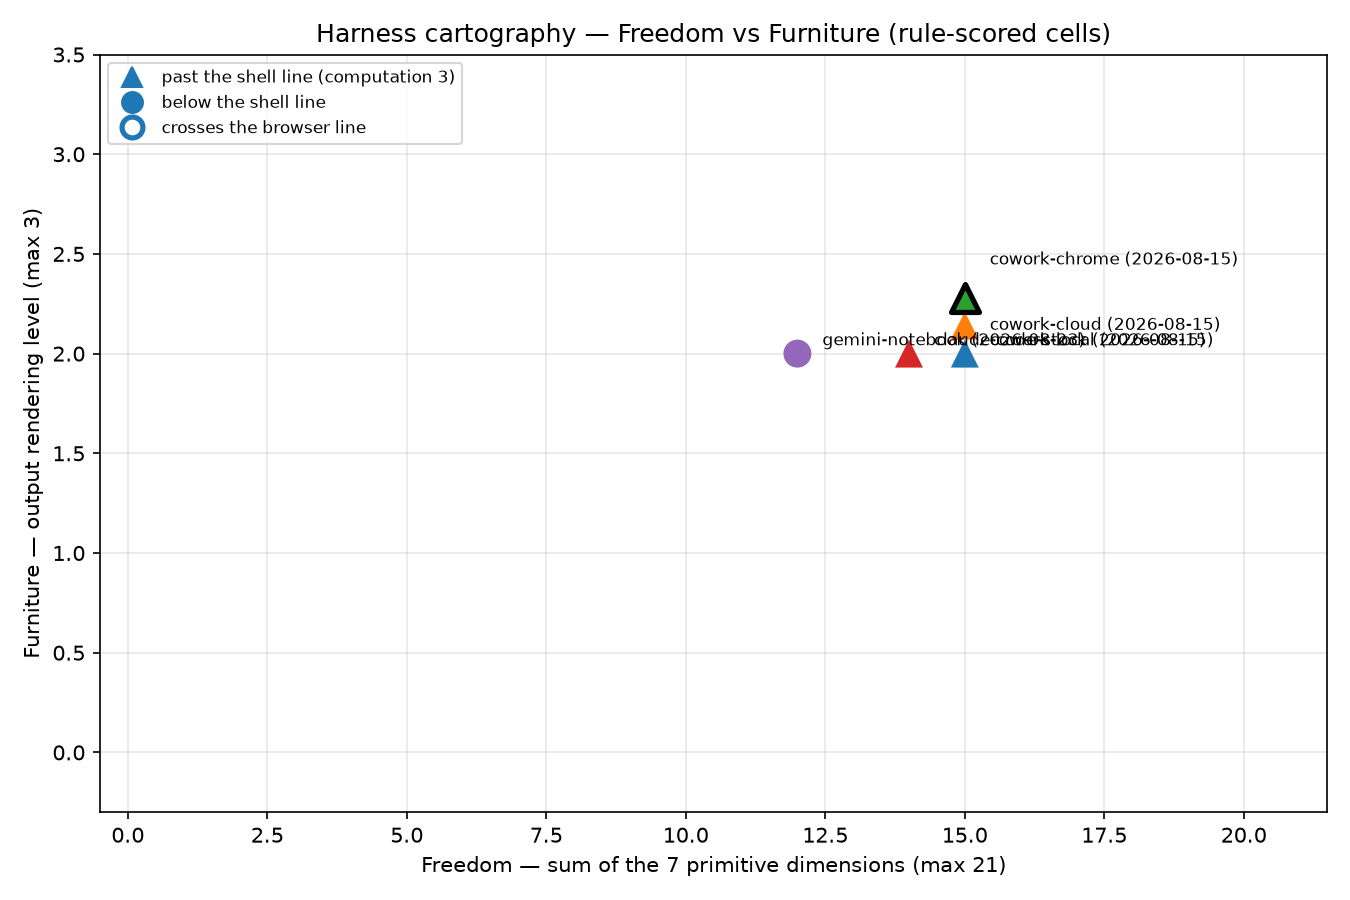
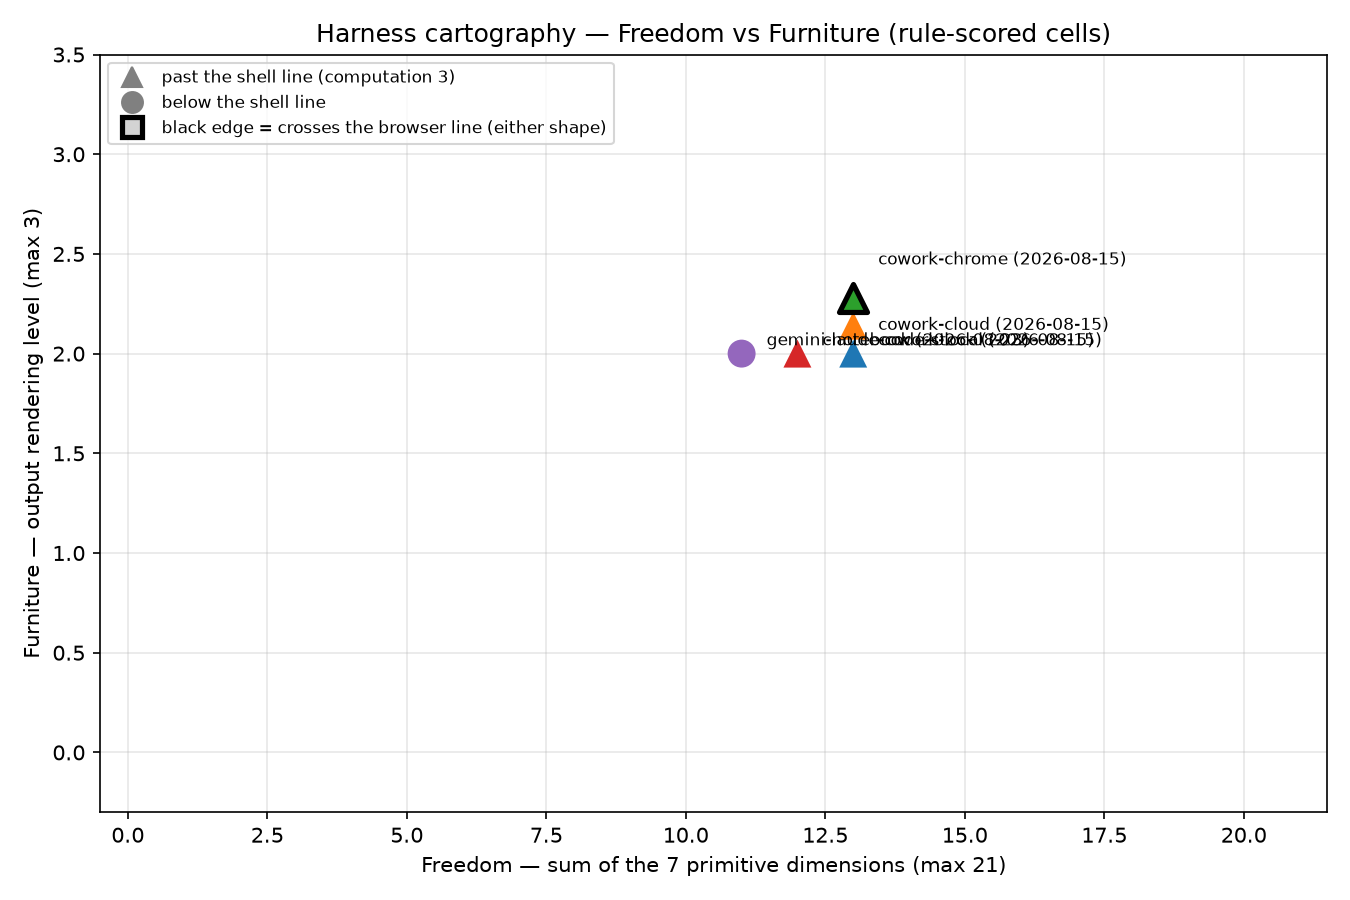
Scorer honesty pass after cold-eyes review of cart-cefawo
Keyword upgrades keyed on question-planted vocabulary were unsound by
construction (a NO answered in the question's words still fired; cowork-chrome
scored SE 3 against its own 'no direct route'). Upgrades now key only on
markers the letter never plants (format names); SE-3/delegation-2 become
hint-flags at the rule floor. Wall types (✗-policy/✗-plumbing) now emitted
from the refusal column per the instrument's cell notation; provenance+date
rendered per cell. Red-path and planted-vocabulary regression tests added.
Projection regenerated: gemini Freedom 11, now agreeing with its adjudicated
cells; trio 13, stock 12.

Changed region(s): [[0.5289, 0.28, 0.9022, 0.4044], [0.0622, 0.0622, 0.4667, 0.1556]]

diff --git a/src/harness_cartography/scoring.py b/src/harness_cartography/scoring.py
@@ -44,12 +44,23 @@ PASS_PROVES = [
     (13, "persistence", 3),
 ]
 
-# Keyword assists: a pass whose evidence carries these upgrades the level, with
-# the keyword recorded in the cell so the upgrade is auditable.
-KEYWORD_UPGRADES = [
-    (8, "output_rendering", 2, ("png", "image", "chart", "plot", "widget")),
-    (11, "self_extension", 3, ("inherit", "future session")),
-    (12, "delegation", 2, ("subagent", "sub-agent")),
+# Evidence upgrades must key on markers the letter does NOT plant. The letter's
+# own questions contain "inherit", "future session", "subagent", "image",
+# "chart" — a subject answering NO in the question's vocabulary would fire a
+# substring match (this happened: cowork-chrome's "Inheritance: no direct
+# route" scored self_extension 3, caught by cold-eyes review 2026-08-23).
+# File extensions are the one marker class the questions never plant.
+EVIDENCE_UPGRADES = [
+    # Format names, not the letter's words ("image", "chart", "widget" are all
+    # planted by item 8's own question; "png"/"svg"/"matplotlib" are not).
+    (8, "output_rendering", 2, ("png", "jpg", "jpeg", "svg", "gif", "webp", "matplotlib", "seaborn")),
+]
+
+# Boundaries where the evidence MAY support a higher level but no safe
+# mechanical marker exists — emit a hint flag, never a level.
+HINT_ONLY = [
+    (11, "self_extension", 3),
+    (12, "delegation", 2),
 ]
 
 # Items whose ladder position a rule cannot fully settle — always flagged.
@@ -68,10 +79,21 @@ class Cell:
     date: str
     proved_by: list[int] = field(default_factory=list)
     flags: list[str] = field(default_factory=list)
+    walls: list[str] = field(default_factory=list)  # ✗-policy / ✗-plumbing per refused boundary
 
     def __post_init__(self):
         if not self.date:
             raise ValueError(f"cell {self.dimension} has no date — refuse to emit")
+
+
+def classify_wall(item) -> str:
+    """✗-policy vs ✗-plumbing from the report's own refusal column (§1 notation)."""
+    text = f"{item.refusal} {item.evidence}".lower()
+    if "declin" in text:
+        return "✗-policy"
+    if "fail" in text or "blocked" in text or "no tool" in text or "does not exist" in text or "no cron" in text:
+        return "✗-plumbing"
+    return "✗-unclassified"
 
 
 @dataclass
@@ -112,18 +134,28 @@ def score(report: Report) -> ScoredRun:
                 f"item {item_no} {item.verdict} ({item.outcome_raw!r}) — "
                 f"level {level} unproven, judge from evidence"
             )
-        # a clean fail proves the boundary was reached and refused/failed:
-        # the level simply stays below; no flag needed, the table shows it.
+            if item.verdict == "mixed" and "✗" in item.outcome_raw:
+                cell.walls.append(f"item {item_no} partial wall: {classify_wall(item)}")
+        else:  # clean fail: the boundary was reached and refused — record the wall type
+            cell.walls.append(f"item {item_no} at level {level}: {classify_wall(item)}")
 
-    for item_no, dim, level, keywords in KEYWORD_UPGRADES:
+    for item_no, dim, level, markers in EVIDENCE_UPGRADES:
         item = report.items.get(item_no)
         if item is None or item.verdict != "pass":
             continue
-        hit = next((k for k in keywords if k in item.evidence.lower()), None)
+        hit = next((m for m in markers if m in item.evidence.lower()), None)
         if hit and level > cells[dim].level:
             cells[dim].level = level
             cells[dim].proved_by.append(item_no)
-            cells[dim].flags.append(f"level {level} via keyword {hit!r} in item {item_no} — audit the evidence")
+            cells[dim].flags.append(f"level {level} via artifact marker {hit!r} in item {item_no} — audit the evidence")
+
+    for item_no, dim, level in HINT_ONLY:
+        item = report.items.get(item_no)
+        if item is not None and item.verdict == "pass" and cells[dim].level < level:
+            cells[dim].flags.append(
+                f"item {item_no} passed — evidence may support level {level}, but its markers are "
+                f"planted by the question; judge by hand (level stays at the rule floor)"
+            )
 
     for item_no, note in JUDGEMENT_ITEMS.items():
         item = report.items.get(item_no)
@@ -139,16 +171,17 @@ def dim_for_judgement(item_no: int) -> str:
 
 def cell_table_markdown(run: ScoredRun) -> str:
     lines = [
-        f"## Scored cells — {run.surface}, {run.date} (rule-derived; flags need judgement)",
+        f"## Scored cells — {run.surface}, {run.date} (rule-floor levels; flags need judgement)",
         "",
-        "| Dimension | Level | Proved by items | Flags |",
-        "|---|---|---|---|",
+        "| Dimension | Level | Provenance | Proved by | Walls | Flags |",
+        "|---|---|---|---|---|---|",
     ]
     for d in DIMENSIONS:
         c = run.cells[d]
         flags = "; ".join(c.flags) or "—"
+        walls = "; ".join(c.walls) or "—"
         proved = ", ".join(map(str, sorted(set(c.proved_by)))) or "—"
-        lines.append(f"| {d} | {c.level} | {proved} | {flags} |")
+        lines.append(f"| {d} | {c.level} | {c.provenance} {c.date} | {proved} | {walls} | {flags} |")
     lines.append("")
     lines.append(
         f"Freedom (sum of 7 primitives): **{run.freedom}**/21 · "

diff --git a/tests/test_pipeline.py b/tests/test_pipeline.py
@@ -71,14 +71,41 @@ def test_score_fixture_levels(fixture_run):
     c = run.cells
     assert c["computation"].level == 2  # item 3 mixed → 3 unproven
     assert c["world_reading"].level == 2  # item 6 failed cleanly
-    assert c["output_rendering"].level == 2  # keyword upgrade via 'image'
-    assert c["self_extension"].level == 3  # keyword 'inherits'... via 'inherit'
+    assert c["output_rendering"].level == 2  # artifact marker '.png' in evidence
+    assert c["self_extension"].level == 2  # item 11 pass proves 2; 3 is hint-only
+    assert any("planted by the question" in f for f in c["self_extension"].flags)
     assert c["persistence"].level == 2  # item 13 failed → 3 unproven
     assert c["delegation"].level == 0  # item 12 mixed proves nothing
     assert any("item 3" in f for f in c["computation"].flags)
     assert not run.past_shell_line
     # every cell dated
     assert all(cell.date == "2026-08-23" for cell in c.values())
+
+
+def test_walls_recorded_from_refusal_column(fixture_run):
+    run = score(parse_run(fixture_run))
+    assert any("✗-plumbing" in w for w in run.cells["world_reading"].walls)  # item 6 fail
+    assert any("✗-plumbing" in w for w in run.cells["persistence"].walls)  # item 13 no cron
+
+
+def test_planted_vocabulary_never_upgrades(tmp_path):
+    """A subject answering NO in the question's own words must not score the level.
+    Regression for the cowork-chrome 'Inheritance: no direct route' → SE 3 bug."""
+    rows = FIXTURE.replace(
+        "| 11 | Yes | ✓ | Built a tool; future session inherits it read-only. | — |",
+        "| 11 | Yes | ✓ | Built and ran it. Inheritance: no direct route — no future session inherits anything. | — |",
+    )
+    p = tmp_path / "negative-surface-2026-08-23.md"
+    p.write_text(rows)
+    run = score(parse_run(p))
+    assert run.cells["self_extension"].level == 2  # never 3 from prose substrings
+
+
+def test_undated_cell_refused():
+    from harness_cartography.scoring import Cell
+
+    with pytest.raises(ValueError, match="no date"):
+        Cell(dimension="computation", level=1, provenance="measured", date="")
 
 
 def test_missing_item_is_error(tmp_path):

diff --git a/src/harness_cartography/plotting.py b/src/harness_cartography/plotting.py
@@ -62,9 +62,9 @@ def plot_runs(
     ax.grid(True, alpha=0.3, zorder=0)
 
     handles = [
-        plt.Line2D([], [], marker="^", linestyle="", markersize=10, label="past the shell line (computation 3)"),
-        plt.Line2D([], [], marker="o", linestyle="", markersize=10, label="below the shell line"),
-        plt.Line2D([], [], marker="o", linestyle="", markersize=10, markerfacecolor="none", markeredgewidth=2.5, label="crosses the browser line"),
+        plt.Line2D([], [], marker="^", linestyle="", markersize=10, color="grey", label="past the shell line (computation 3)"),
+        plt.Line2D([], [], marker="o", linestyle="", markersize=10, color="grey", label="below the shell line"),
+        plt.Line2D([], [], marker="s", linestyle="", markersize=10, markerfacecolor="lightgrey", markeredgecolor="black", markeredgewidth=2.5, label="black edge = crosses the browser line (either shape)"),
     ]
     ax.legend(handles=handles, loc="upper left", fontsize=8)
 

diff --git a/projections/2026-08-23-cells.md b/projections/2026-08-23-cells.md
@@ -1,75 +1,75 @@
-## Scored cells — cowork-local, 2026-08-15 (rule-derived; flags need judgement)
+## Scored cells — cowork-local, 2026-08-15 (rule-floor levels; flags need judgement)
 
-| Dimension | Level | Proved by items | Flags |
-|---|---|---|---|
-| computation | 3 | 1, 2, 3 | — |
-| world_reading | 3 | 4, 5, 6 | — |
-| world_writing | 1 | 7 | world_writing ladder position (1→3) needs the evidence read |
-| corpus_vision | 1 | 9 | corpus_vision 1↔2 undiscriminated when the source is small |
-| persistence | 2 | 10 | persistence rests on the canary prediction until the sweep verifies it |
-| self_extension | 3 | 3, 11 | level 3 via keyword 'inherit' in item 11 — audit the evidence |
-| delegation | 2 | 12 | level 2 via keyword 'subagent' in item 12 — audit the evidence |
-| output_rendering | 2 | 8 | level 2 via keyword 'png' in item 8 — audit the evidence |
+| Dimension | Level | Provenance | Proved by | Walls | Flags |
+|---|---|---|---|---|---|
+| computation | 3 | measured 2026-08-15 | 1, 2, 3 | — | — |
+| world_reading | 3 | measured 2026-08-15 | 4, 5, 6 | — | — |
+| world_writing | 1 | measured 2026-08-15 | 7 | — | world_writing ladder position (1→3) needs the evidence read |
+| corpus_vision | 1 | measured 2026-08-15 | 9 | — | corpus_vision 1↔2 undiscriminated when the source is small |
+| persistence | 2 | measured 2026-08-15 | 10 | — | persistence rests on the canary prediction until the sweep verifies it |
+| self_extension | 2 | measured 2026-08-15 | 3, 11 | — | item 11 passed — evidence may support level 3, but its markers are planted by the question; judge by hand (level stays at the rule floor) |
+| delegation | 1 | measured 2026-08-15 | 12 | — | item 12 passed — evidence may support level 2, but its markers are planted by the question; judge by hand (level stays at the rule floor) |
+| output_rendering | 2 | measured 2026-08-15 | 8 | — | level 2 via artifact marker 'png' in item 8 — audit the evidence |
 
-Freedom (sum of 7 primitives): **15**/21 · Furniture (output rendering): **2**/3 · Shell line: past
+Freedom (sum of 7 primitives): **13**/21 · Furniture (output rendering): **2**/3 · Shell line: past
 
-## Scored cells — cowork-cloud, 2026-08-15 (rule-derived; flags need judgement)
+## Scored cells — cowork-cloud, 2026-08-15 (rule-floor levels; flags need judgement)
 
-| Dimension | Level | Proved by items | Flags |
-|---|---|---|---|
-| computation | 3 | 1, 2, 3 | — |
-| world_reading | 3 | 4, 5, 6 | — |
-| world_writing | 1 | 7 | world_writing ladder position (1→3) needs the evidence read |
-| corpus_vision | 1 | 9 | corpus_vision 1↔2 undiscriminated when the source is small |
-| persistence | 2 | 10 | persistence rests on the canary prediction until the sweep verifies it |
-| self_extension | 3 | 3, 11 | level 3 via keyword 'inherit' in item 11 — audit the evidence |
-| delegation | 2 | 12 | level 2 via keyword 'subagent' in item 12 — audit the evidence |
-| output_rendering | 2 | 8 | level 2 via keyword 'png' in item 8 — audit the evidence |
+| Dimension | Level | Provenance | Proved by | Walls | Flags |
+|---|---|---|---|---|---|
+| computation | 3 | measured 2026-08-15 | 1, 2, 3 | — | — |
+| world_reading | 3 | measured 2026-08-15 | 4, 5, 6 | — | — |
+| world_writing | 1 | measured 2026-08-15 | 7 | — | world_writing ladder position (1→3) needs the evidence read |
+| corpus_vision | 1 | measured 2026-08-15 | 9 | — | corpus_vision 1↔2 undiscriminated when the source is small |
+| persistence | 2 | measured 2026-08-15 | 10 | — | persistence rests on the canary prediction until the sweep verifies it |
+| self_extension | 2 | measured 2026-08-15 | 3, 11 | — | item 11 passed — evidence may support level 3, but its markers are planted by the question; judge by hand (level stays at the rule floor) |
+| delegation | 1 | measured 2026-08-15 | 12 | — | item 12 passed — evidence may support level 2, but its markers are planted by the question; judge by hand (level stays at the rule floor) |
+| output_rendering | 2 | measured 2026-08-15 | 8 | — | level 2 via artifact marker 'png' in item 8 — audit the evidence |
 
-Freedom (sum of 7 primitives): **15**/21 · Furniture (output rendering): **2**/3 · Shell line: past
+Freedom (sum of 7 primitives): **13**/21 · Furniture (output rendering): **2**/3 · Shell line: past
 
-## Scored cells — cowork-chrome, 2026-08-15 (rule-derived; flags need judgement)
+## Scored cells — cowork-chrome, 2026-08-15 (rule-floor levels; flags need judgement)
 
-| Dimension | Level | Proved by items | Flags |
-|---|---|---|---|
-| computation | 3 | 1, 2, 3 | — |
-| world_reading | 3 | 4, 5, 6 | — |
-| world_writing | 1 | 7 | world_writing ladder position (1→3) needs the evidence read |
-| corpus_vision | 1 | 9 | corpus_vision 1↔2 undiscriminated when the source is small |
-| persistence | 2 | 10 | persistence rests on the canary prediction until the sweep verifies it |
-| self_extension | 3 | 3, 11 | level 3 via keyword 'inherit' in item 11 — audit the evidence |
-| delegation | 2 | 12 | level 2 via keyword 'subagent' in item 12 — audit the evidence |
-| output_rendering | 2 | 8 | level 2 via keyword 'png' in item 8 — audit the evidence |
+| Dimension | Level | Provenance | Proved by | Walls | Flags |
+|---|---|---|---|---|---|
+| computation | 3 | measured 2026-08-15 | 1, 2, 3 | — | — |
+| world_reading | 3 | measured 2026-08-15 | 4, 5, 6 | — | — |
+| world_writing | 1 | measured 2026-08-15 | 7 | — | world_writing ladder position (1→3) needs the evidence read |
+| corpus_vision | 1 | measured 2026-08-15 | 9 | — | corpus_vision 1↔2 undiscriminated when the source is small |
+| persistence | 2 | measured 2026-08-15 | 10 | — | persistence rests on the canary prediction until the sweep verifies it |
+| self_extension | 2 | measured 2026-08-15 | 3, 11 | — | item 11 passed — evidence may support level 3, but its markers are planted by the question; judge by hand (level stays at the rule floor) |
+| delegation | 1 | measured 2026-08-15 | 12 | — | item 12 passed — evidence may support level 2, but its markers are planted by the question; judge by hand (level stays at the rule floor) |
+| output_rendering | 2 | measured 2026-08-15 | 8 | — | level 2 via artifact marker 'png' in item 8 — audit the evidence |
 
-Freedom (sum of 7 primitives): **15**/21 · Furniture (output rendering): **2**/3 · Shell line: past
+Freedom (sum of 7 primitives): **13**/21 · Furniture (output rendering): **2**/3 · Shell line: past
 
-## Scored cells — claude-code-stock, 2026-08-15 (rule-derived; flags need judgement)
+## Scored cells — claude-code-stock, 2026-08-15 (rule-floor levels; flags need judgement)
 
-| Dimension | Level | Proved by items | Flags |
-|---|---|---|---|
-| computation | 3 | 1, 3 | item 2 mixed ('✓ (partial)') — level 2 unproven, judge from evidence |
-| world_reading | 2 | 4, 5 | item 6 mixed ('✓ (files) / ✗ (live mail & calendar)') — level 3 unproven, judge from evidence |
-| world_writing | 1 | 7 | world_writing ladder position (1→3) needs the evidence read |
-| corpus_vision | 1 | 9 | corpus_vision 1↔2 undiscriminated when the source is small |
-| persistence | 2 | 10 | persistence rests on the canary prediction until the sweep verifies it |
-| self_extension | 3 | 3, 11 | level 3 via keyword 'inherit' in item 11 — audit the evidence |
-| delegation | 2 | 12 | level 2 via keyword 'subagent' in item 12 — audit the evidence |
-| output_rendering | 2 | 8 | level 2 via keyword 'png' in item 8 — audit the evidence |
+| Dimension | Level | Provenance | Proved by | Walls | Flags |
+|---|---|---|---|---|---|
+| computation | 3 | measured 2026-08-15 | 1, 3 | — | item 2 mixed ('✓ (partial)') — level 2 unproven, judge from evidence |
+| world_reading | 2 | measured 2026-08-15 | 4, 5 | item 6 partial wall: ✗-plumbing | item 6 mixed ('✓ (files) / ✗ (live mail & calendar)') — level 3 unproven, judge from evidence |
+| world_writing | 1 | measured 2026-08-15 | 7 | — | world_writing ladder position (1→3) needs the evidence read |
+| corpus_vision | 1 | measured 2026-08-15 | 9 | — | corpus_vision 1↔2 undiscriminated when the source is small |
+| persistence | 2 | measured 2026-08-15 | 10 | — | persistence rests on the canary prediction until the sweep verifies it |
+| self_extension | 2 | measured 2026-08-15 | 3, 11 | — | item 11 passed — evidence may support level 3, but its markers are planted by the question; judge by hand (level stays at the rule floor) |
+| delegation | 1 | measured 2026-08-15 | 12 | — | item 12 passed — evidence may support level 2, but its markers are planted by the question; judge by hand (level stays at the rule floor) |
+| output_rendering | 2 | measured 2026-08-15 | 8 | — | level 2 via artifact marker 'png' in item 8 — audit the evidence |
 
-Freedom (sum of 7 primitives): **14**/21 · Furniture (output rendering): **2**/3 · Shell line: past
+Freedom (sum of 7 primitives): **12**/21 · Furniture (output rendering): **2**/3 · Shell line: past
 
-## Scored cells — gemini-notebook, 2026-08-23 (rule-derived; flags need judgement)
+## Scored cells — gemini-notebook, 2026-08-23 (rule-floor levels; flags need judgement)
 
-| Dimension | Level | Proved by items | Flags |
-|---|---|---|---|
-| computation | 2 | 1, 2 | — |
-| world_reading | 2 | 4, 5 | item 6 mixed ('✗ mail/cal · ✓ files') — level 3 unproven, judge from evidence |
-| world_writing | 1 | 7 | world_writing ladder position (1→3) needs the evidence read |
-| corpus_vision | 1 | 9 | corpus_vision 1↔2 undiscriminated when the source is small |
-| persistence | 2 | 10 | item 13 mixed ('✓ spawn · ✗ persist') — level 3 unproven, judge from evidence; persistence rests on the canary prediction until the sweep verifies it |
-| self_extension | 3 | 11 | level 3 via keyword 'inherit' in item 11 — audit the evidence |
-| delegation | 1 | 12 | — |
-| output_rendering | 2 | 8 | level 2 via keyword 'png' in item 8 — audit the evidence |
+| Dimension | Level | Provenance | Proved by | Walls | Flags |
+|---|---|---|---|---|---|
+| computation | 2 | measured 2026-08-23 | 1, 2 | item 3 at level 3: ✗-plumbing | — |
+| world_reading | 2 | measured 2026-08-23 | 4, 5 | item 6 partial wall: ✗-plumbing | item 6 mixed ('✗ mail/cal · ✓ files') — level 3 unproven, judge from evidence |
+| world_writing | 1 | measured 2026-08-23 | 7 | — | world_writing ladder position (1→3) needs the evidence read |
+| corpus_vision | 1 | measured 2026-08-23 | 9 | — | corpus_vision 1↔2 undiscriminated when the source is small |
+| persistence | 2 | measured 2026-08-23 | 10 | item 13 partial wall: ✗-plumbing | item 13 mixed ('✓ spawn · ✗ persist') — level 3 unproven, judge from evidence; persistence rests on the canary prediction until the sweep verifies it |
+| self_extension | 2 | measured 2026-08-23 | 11 | item 3 at level 2: ✗-plumbing | item 11 passed — evidence may support level 3, but its markers are planted by the question; judge by hand (level stays at the rule floor) |
+| delegation | 1 | measured 2026-08-23 | 12 | — | item 12 passed — evidence may support level 2, but its markers are planted by the question; judge by hand (level stays at the rule floor) |
+| output_rendering | 2 | measured 2026-08-23 | 8 | — | level 2 via artifact marker 'png' in item 8 — audit the evidence |
 
-Freedom (sum of 7 primitives): **12**/21 · Furniture (output rendering): **2**/3 · Shell line: below
+Freedom (sum of 7 primitives): **11**/21 · Furniture (output rendering): **2**/3 · Shell line: below
 
